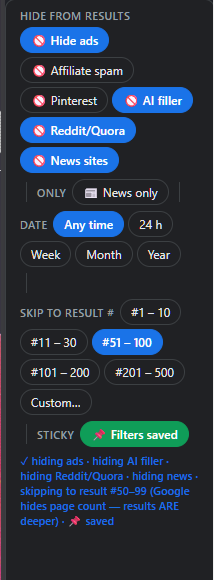
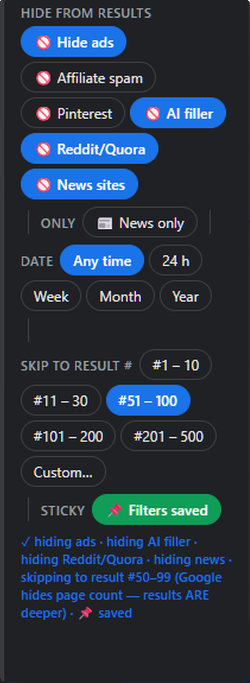
update search clear

diff --git a/tools/searchclear/index.html b/tools/searchclear/index.html
@@ -694,7 +694,6 @@ a { color: inherit; }
     </div>
   </div>
 </footer>
-<<<<<<< HEAD
 <style>
 .site-footer { border-top: 1px solid var(--border, #E2E8F0); padding: 32px 36px; margin-top: 48px; background: var(--surface, #FFFFFF); }
 .site-footer-inner { max-width: 1140px; margin: 0 auto; display: flex; flex-direction: column; gap: 20px; }
@@ -714,8 +713,5 @@ a { color: inherit; }
 }
 </style>
 
-</body>
-=======
-<script data-goatcounter="https://notavello.goatcounter.com/count" async src="//gc.zgo.at/count.js"></script></body>
->>>>>>> b11f92609c395130285577d07aa5d60a3cac7d19
-</html>
+<script data-goatcounter="https://notavello.goatcounter.com/count" async src="//gc.zgo.at/count.js"></script>
+</body></html>